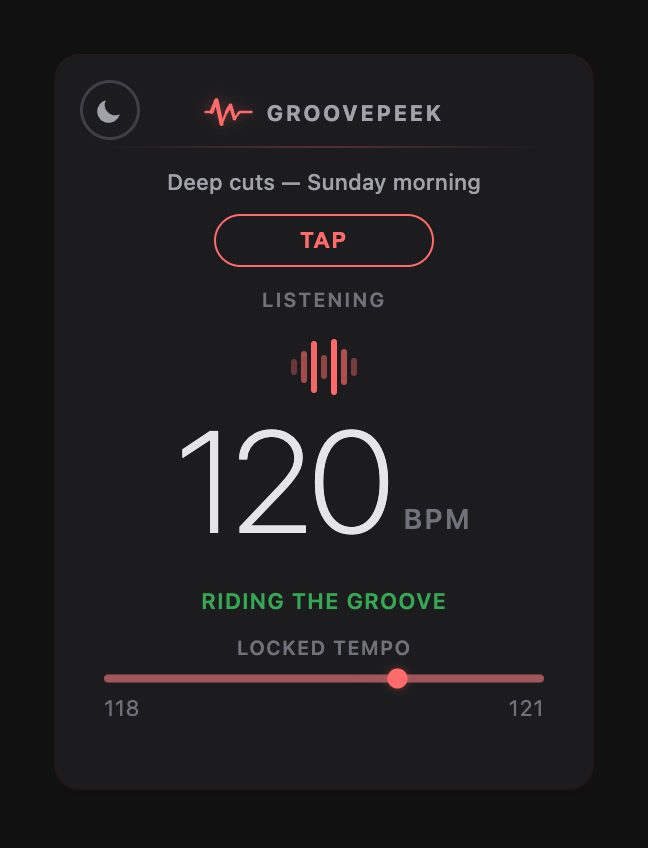
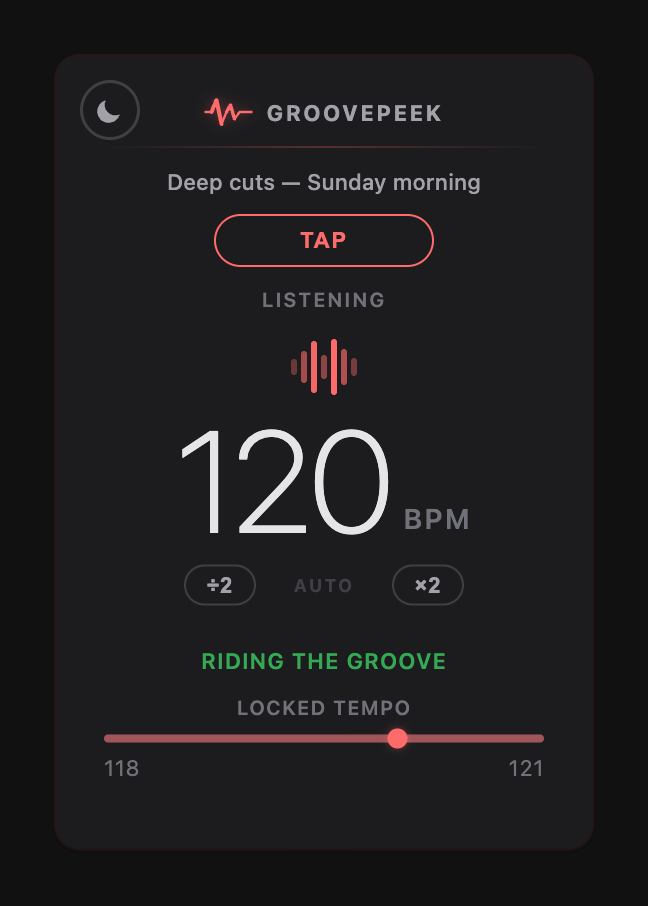
Document GroovePeek 1.2.0 and PitchPeek 1.1.0
Both extensions are being released, and both pages had drifted from what
the extensions actually do.

GroovePeek
- Version badge 1.1.0 -> 1.2.0.
- The beat-indicator card described the pulse as syncing to the detected
  tempo. Since #41 it is phase-locked: it times a real beat in the audio
  and re-anchors to it, rather than merely running at the right rate.
- New feature card for the octave override.
- The honesty section said the characteristic error is an octave and
  pointed at Tap Tempo as the recourse. Since #50 there is a direct fix,
  so the octave buttons lead and Tap Tempo stays as the independent
  measurement for when you are not sure it is an octave at all.
- All five popup captures regenerated: the octave row is visible in every
  confident reading, so the published ones showed a popup that no longer
  exists.

PitchPeek
- Version badge 1.0.0 -> 1.1.0.
- New fourth state card, "No clear pitch", documenting the one
  user-visible change in 1.1.0: material with no tuning reference to find
  (percussion, speech, field recordings) now gets named as such instead
  of sitting on a spinner forever.
- A paragraph in the honesty section, kept deliberately separate from the
  +/-13 cent bias discussion. Those are different claims: "this reading
  may be a few cents off" versus "there is not enough tonal content here
  to measure".

styles.css
.states-grid is shared with GroovePeek's three-card row, so it could not
[…]

Changed region(s): [[0.1543, 0.092, 0.8642, 0.8585], [0.1235, 0.092, 0.216, 0.184], [0.2778, 0.4599, 0.3395, 0.5519]]

diff --git a/groovepeek.html b/groovepeek.html
@@ -40,7 +40,7 @@
       <div class="hero-eyebrow">
         <span class="eyebrow-dot"></span>
         Chrome Extension
-        <span class="eyebrow-version">v1.1.0</span>
+        <span class="eyebrow-version">v1.2.0</span>
       </div>
       <h1>Know the&nbsp;BPM.<br>Instantly.</h1>
       <p class="hero-lead">Play a song on YouTube or Spotify. Click the extension. See the tempo in seconds — no setup, no login, no nonsense.</p>
@@ -88,7 +88,7 @@
             </svg>
           </div>
           <strong>Beat indicator</strong>
-          <p>The waveform animation syncs live to the detected tempo — a visual heartbeat of the song, handy for DJs, producers, and dancers.</p>
+          <p>The pulse lands on the song&rsquo;s actual beats, not just at the right rate — GroovePeek times a real beat in the audio and re-anchors to it, so the heartbeat stays with the music instead of drifting out of phase with it.</p>
         </div>
         <div class="feature-card">
           <div class="feature-icon-wrap">
@@ -99,6 +99,17 @@
           </div>
           <strong>Tap Tempo</strong>
           <p>Not sure about the reading? Tap along with the beat and get your own manual measurement side by side.</p>
+        </div>
+        <div class="feature-card">
+          <div class="feature-icon-wrap">
+            <svg width="22" height="22" viewBox="0 0 24 24" fill="none" aria-hidden="true">
+              <path d="M5 9V7a2 2 0 012-2h10a2 2 0 012 2v2" stroke="currentColor" stroke-width="2" stroke-linecap="round"/>
+              <path d="M19 15v2a2 2 0 01-2 2H7a2 2 0 01-2-2v-2" stroke="currentColor" stroke-width="2" stroke-linecap="round"/>
+              <path d="M3 12h18" stroke="currentColor" stroke-width="2" stroke-linecap="round"/>
+            </svg>
+          </div>
+          <strong>&times;2 and &divide;2, when it lands an octave off</strong>
+          <p>When a reading is exactly half or twice what you&rsquo;re hearing, one button puts it right. It only changes the number on screen — GroovePeek keeps measuring what it measured, and forgets the correction when the song does.</p>
         </div>
       </div>
     </section>
@@ -156,7 +167,7 @@
         <strong>How accurate is it, honestly</strong>
         <p>It depends almost entirely on the material. Steady music with audible percussion is the easy case: GroovePeek usually has a correct reading within about ten seconds of the beat becoming audible, and holds it — longer on a track that opens with a quiet or free-time intro. Across the full-length tracks in its test set, roughly three in four of the readings it chose to display landed within a few BPM of the true tempo.</p>
         <p>Free-tempo playing is the hard case. On rubato piano, slow ballads and sparse recordings it will often show a dash for long stretches — and where it does commit, it can be wrong. The characteristic error is an octave: half or double the real tempo, which happens when a busy guitar or a strong off-beat looks more periodic than the beat itself. If a reading looks like exactly half or twice what you're hearing, that's the one to distrust.</p>
-        <p>That's what Tap Tempo is there for. Tap along for a few beats and you get an independent number beside GroovePeek's, which settles the question faster than staring at the confidence label.</p>
+        <p>That one you can fix yourself. If the number is exactly half or twice the tempo you&rsquo;re hearing, the <strong>&times;2</strong> and <strong>&divide;2</strong> buttons under it correct the display in one click — and because the pulse is anchored to a real beat rather than derived from the number, it keeps landing on the beat through the change. If you&rsquo;re not sure it&rsquo;s an octave at all, Tap Tempo settles it: tap along for a few beats and you get an independent number beside GroovePeek&rsquo;s, faster than staring at the confidence label.</p>
       </div>
     </section>
 

diff --git a/pitchpeek.html b/pitchpeek.html
@@ -42,7 +42,7 @@
       <div class="hero-eyebrow">
         <span class="eyebrow-dot"></span>
         Chrome Extension
-        <span class="eyebrow-version">v1.0.0</span>
+        <span class="eyebrow-version">v1.1.0</span>
       </div>
       <h1>Is this really<br>at&nbsp;A=440?</h1>
       <p class="hero-lead">Play a recording. PitchPeek listens to the tab, measures how far its tonal content sits from the equal-tempered grid, and tells you the reference pitch it settled on.</p>
@@ -107,7 +107,7 @@
     <section class="states-section">
       <div class="section-label">How a reading settles</div>
       <h2 class="section-heading">It listens first,<br>then commits</h2>
-      <div class="states-grid">
+      <div class="states-grid states-4">
 
         <div class="state-card state-mid">
           <img class="state-shot" src="store-assets/pp-state-converging.png" alt="PitchPeek popup showing 440 Hz with a Getting a read label" />
@@ -133,6 +133,14 @@
           </div>
         </div>
 
+        <div class="state-card">
+          <img class="state-shot" src="store-assets/pp-state-unmeasurable.png" alt="PitchPeek popup showing a dash instead of a frequency, with a No clear pitch status and the detail Not enough tonal content to measure" />
+          <div class="state-caption">
+            <strong>No clear pitch</strong>
+            <span>Listened long enough, and says so</span>
+          </div>
+        </div>
+
       </div>
     </section>
 
@@ -147,6 +155,7 @@
         <strong>How accurate is it, honestly</strong>
         <p>The reading is content-dependent. Instruments produce overtones that don't sit on the equal-tempered grid — a fifth harmonic lands about 14 cents flat of one — so in sparse or overtone-heavy passages those partials can pull the estimate a little off the true reference. Expect roughly ±13 cents on real material, sometimes more on sparse recordings.</p>
         <p>That's good enough to separate a 432 Hz recording from a 440 Hz one with confidence, and to answer "why does this sound flat?". Distinctions smaller than that — 440 against 442, say — sit inside the margin, so read the cents and treat them as an indication rather than a verdict. It is not a substitute for a hardware tuner on a single sustained note.</p>
+        <p>Some material has no tuning reference to find at all — percussion, spoken word, field recordings, heavily processed sound. Rather than sit on a spinner forever, PitchPeek now says so: once it has integrated a full stretch of audio and still cannot place the pitch, it reports <strong>no clear pitch</strong> and stops pretending to still be working. That is a different statement from the margin above — not &ldquo;this reading may be a few cents off&rdquo; but &ldquo;there is not enough tonal content here to measure&rdquo;.</p>
       </div>
     </section>
 

diff --git a/styles.css b/styles.css
@@ -427,7 +427,19 @@ main {
   gap: 10px;
 }
 
-@media (max-width: 560px) { .states-grid { grid-template-columns: 1fr; } }
+/* Opt-in 4-up row. The 3-column default is shared with GroovePeek's states
+   grid, so widening it there is not an option — PitchPeek adds a fourth state
+   (no clear pitch) and asks for the extra column explicitly. */
+.states-grid.states-4 { grid-template-columns: repeat(4, 1fr); }
+
+@media (max-width: 860px) { .states-grid.states-4 { grid-template-columns: repeat(2, 1fr); } }
+
+/* .states-4 outranks the bare .states-grid selector, so it has to be named here
+   too — otherwise the 4-column rule survives into the single-column breakpoint. */
+@media (max-width: 560px) {
+  .states-grid,
+  .states-grid.states-4 { grid-template-columns: 1fr; }
+}
 
 .state-card {
   background: var(--surface);
